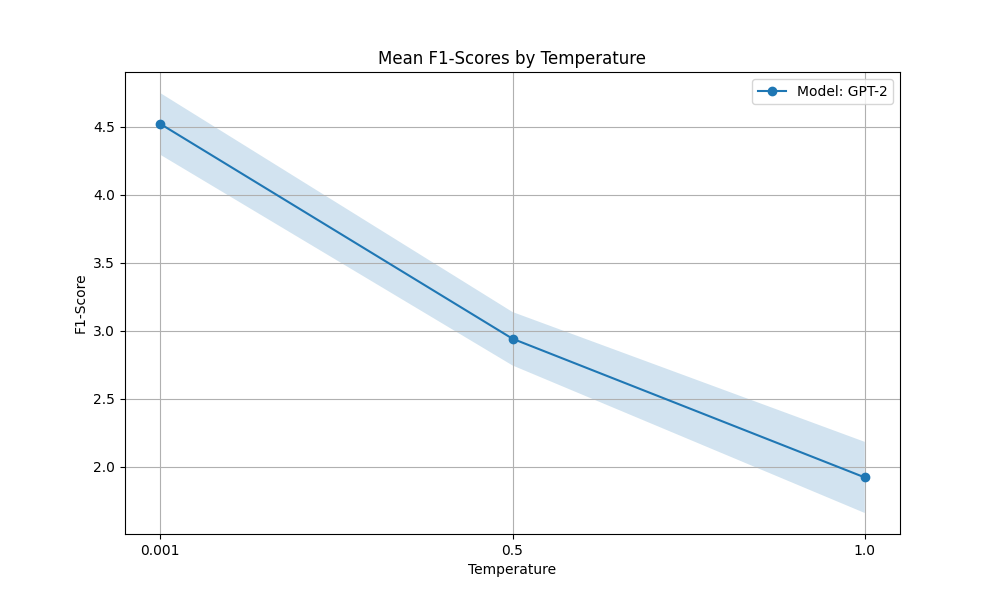
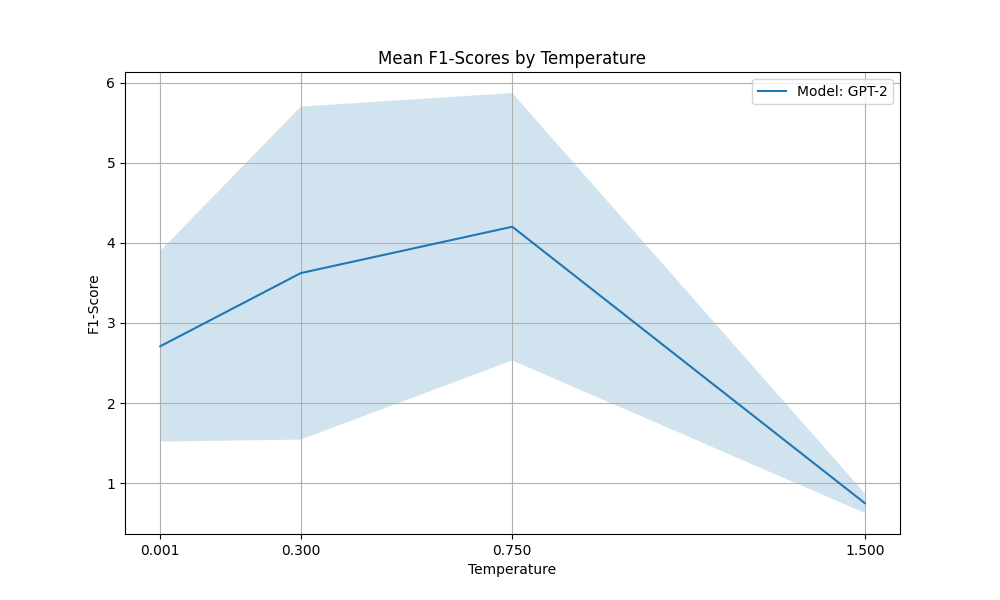
Pewliminary results are not great. Need to run these in parallel with different huggingface tokens (4 tokens).

diff --git a/transcendence_llm/llm_temp_sampling.py b/transcendence_llm/llm_temp_sampling.py
@@ -31,7 +31,6 @@ import requests
 
 load_dotenv()
 
-
 def load_eval_dataset(dataset_name="squad_v2"):
     # Load the SQuAD v2 dataset by default
     file_path = "Meta-Llama-3.1-8B-evals/Details_squad_2024-07-22T14-58-08.291117.parquet.gzip"
@@ -55,32 +54,40 @@ def get_model_prediction(client, prompt, temperature=1.0, max_tokens=3500):
         )
         # Extract the response content
         answer = response.get("choices", [{}])[0].get("message", {}).get("content", "")
+        answer = answer.split("\n\n")[0].strip()
 
     except Exception as e:
         print(f"Error during inference: {e}")
         answer = ""
     return answer
     
+    
 def get_model_prediction_API(model_api, prompt, temperature=1.0):
     # API_URL = "https://api-inference.huggingface.co/models/openai-community/gpt2"
+    token = os.getenv(f'HUGGINGFACE_HUB_TOKEN_2')
     API_URL = model_api
-    headers = {"Authorization": f"Bearer {os.getenv('HUGGINGFACE_HUB_TOKEN')}"}
+    headers = {"Authorization": f"Bearer {token}"}
     payload = {
         "inputs": prompt, 
+        "options": {
+            "wait_for_model": True
+        },
         "parameters": {
             "temperature": temperature  # Set your desired temperature here
         }
     }
     response = requests.post(API_URL, headers=headers, json=payload)
-    return response.json()[0]['generated_text'].split(prompt)[1].split("\n\n")[0].strip()
+    prediction = response.json()[0]['generated_text'].split(prompt)[1].split("\n\n")[0].strip()
+    return prediction
 
 
 # def evaluate_predictions(client, eval_dataset, squad_metric, temperatures=[0, 0.5, 1.0]):
-def evaluate_predictions(model_api, eval_dataset, squad_metric, temperatures=[0, 0.5, 1.0]):
+def evaluate_predictions(cfg, model_api, eval_dataset, squad_metric, temperatures=[0, 0.5, 1.0]):
+    og_eval_dataset = eval_dataset
     results = defaultdict(list)
     
-    for seed in range(1):
-        eval_dataset = eval_dataset.select(range(seed*25, seed*25+25))
+    for seed in range(3, 4):
+        eval_dataset = og_eval_dataset.select(range(seed*25, seed*25+25))
         for temp in temperatures:
             predictions = []
             references = []
@@ -96,7 +103,7 @@ def evaluate_predictions(model_api, eval_dataset, squad_metric, temperatures=[0,
                 references.append({"id": str(i), "answers": {"answer_start": [0], "text": reference_answers}})
                     
                 # Sleep to avoid hitting rate limits
-                time.sleep(0.5)  # Adjust based on API rate limits
+                time.sleep(0.3)  # Adjust based on API rate limits
 
             # Compute metrics
             metric_result = squad_metric.compute(predictions=predictions, references=references)
@@ -104,7 +111,8 @@ def evaluate_predictions(model_api, eval_dataset, squad_metric, temperatures=[0,
         
             time.sleep(60)
         
-    
+        with open(f"cached_eval_res_{cfg.model_name}_3.pkl", "wb") as fin:
+            pickle.dump(results, fin)
     return results
 
 
@@ -114,23 +122,23 @@ def plot_f1_scores(evaluation_results, cfg: Config):
     import numpy as np
 
     
-    # # Process Results
-    # formatted_data = defaultdict(list)
-    # for temp, metrics_list in evaluation_results.items():
-    #     for metric in metrics_list:
-    #         formatted_data[temp].append(metric['f1'])
+    # Process Results
+    formatted_data = defaultdict(list)
+    for temp, metrics_list in evaluation_results.items():
+        for metric in metrics_list:
+            formatted_data[temp].append(metric['f1'])
 
-    # # Create a DataFrame with some data
-    # df = pd.DataFrame(formatted_data)
-    # print(df)
+    # Create a DataFrame with some data
+    df = pd.DataFrame(formatted_data)
+    print(df)
     
     # Mock Data:
-    data = {
-        0.001: [4.5, 3.8, 4.4, 5.2, 4.7],
-        0.5: [3.3, 3.1, 2.2, 3.2, 2.9],
-        1: [2.1, 1.3, 2.8, 1.5, 1.9]
-    }
-    df = pd.DataFrame(data, index=[1, 2, 3, 4, 5])
+    # data = {
+    #     0.001: [4.5, 3.8, 4.4, 5.2, 4.7],
+    #     0.5: [3.3, 3.1, 2.2, 3.2, 2.9],
+    #     1: [2.1, 1.3, 2.8, 1.5, 1.9]
+    # }
+    # df = pd.DataFrame(data, index=[1, 2, 3, 4, 5])
     
     # Calculate mean and standard deviation
     means = df.mean()
@@ -139,13 +147,13 @@ def plot_f1_scores(evaluation_results, cfg: Config):
 
 
     # Create the x-axis labels from the DataFrame columns
-    x_labels = df.columns.astype(str)
+    x_labels = df.columns
     title  ='Mean F1-Scores by Temperature'
     
     # Plotting
     plt.figure(figsize=(10, 6))
     # plt.errorbar(x_labels, means, yerr=stds, fmt='-o', capsize=5, capthick=2, label=f'Model: {cfg.model_name}')
-    plt.plot(x_labels, means, '-o', label=f'Model: {cfg.model_name}')
+    plt.plot(x_labels, means, label=f'Model: {cfg.model_name}')
     plt.fill_between(x_labels, (means - sem), (means + sem), alpha=0.2)
     
     plt.title(f"{title}")
@@ -166,7 +174,7 @@ def run_llm(cfg: Config):
             config=dataclasses.asdict(cfg),
         )
     
-    login(token=os.getenv("HUGGINGFACE_HUB_TOKEN"))
+    login(token=os.getenv("HUGGINGFACE_HUB_TOKEN_2"))
     # client = load_client(cfg)
     dataset = load_eval_dataset(dataset_name="meta-llama/Meta-Llama-3.1-8B-evals")
 
@@ -180,17 +188,35 @@ def run_llm(cfg: Config):
     #     print(f"Temperature {temp}: F1 = {metrics['f1']}, EM = {metrics['exact']}")
     
     # Save Evaluation Results:
-    # if os.path.exists(f"cached_eval_res_{cfg.model_name}.pkl"):
+    # if os.path.exists(f"cached_eval_res_{cfg.model_name}_3.pkl"):
     #     evaluation_results = pickle.load(
-    #         open(f"cached_eval_res_{cfg.model_name}.pkl", "rb")
+    #         open(f"cached_eval_res_{cfg.model_name}_3.pkl", "rb")
     #     )
     # else:
-    #     evaluation_results = {}
-    #     evaluation_results = evaluate_predictions(cfg.model_api, dataset, squad_metric, temperatures=cfg.temperatures)
-    #     with open(f"cached_eval_res_{cfg.model_name}.pkl", "wb") as fin:
-    #         pickle.dump(evaluation_results, fin)
-        
     evaluation_results = {}
+    evaluation_results = evaluate_predictions(cfg, cfg.model_api, dataset, squad_metric, temperatures=cfg.temperatures)
+        # with open(f"cached_eval_res_{cfg.model_name}_3.pkl", "wb") as fin:
+        #     pickle.dump(evaluation_results, fin)
+        
+            
+    evaluation_results = {}
+    evaluation_results_0 = pickle.load(
+        open(f"cached_eval_res_{cfg.model_name}_0.pkl", "rb")
+    )
+    evaluation_results_1_2 = pickle.load(
+        open(f"cached_eval_res_{cfg.model_name}_1_2.pkl", "rb")
+    )
+    evaluation_results_3 = pickle.load(
+        open(f"cached_eval_res_{cfg.model_name}_3.pkl", "rb")
+    )
+    
+    for temp, metrics in evaluation_results_0.items():
+        evaluation_results[temp] = metrics
+    for temp, metrics in evaluation_results_1_2.items():
+        evaluation_results[temp] += metrics
+    for temp, metrics in evaluation_results_3.items():
+        evaluation_results[temp] += metrics
+    
     plot_f1_scores(evaluation_results, cfg)    
         
     if cfg.wandb:
